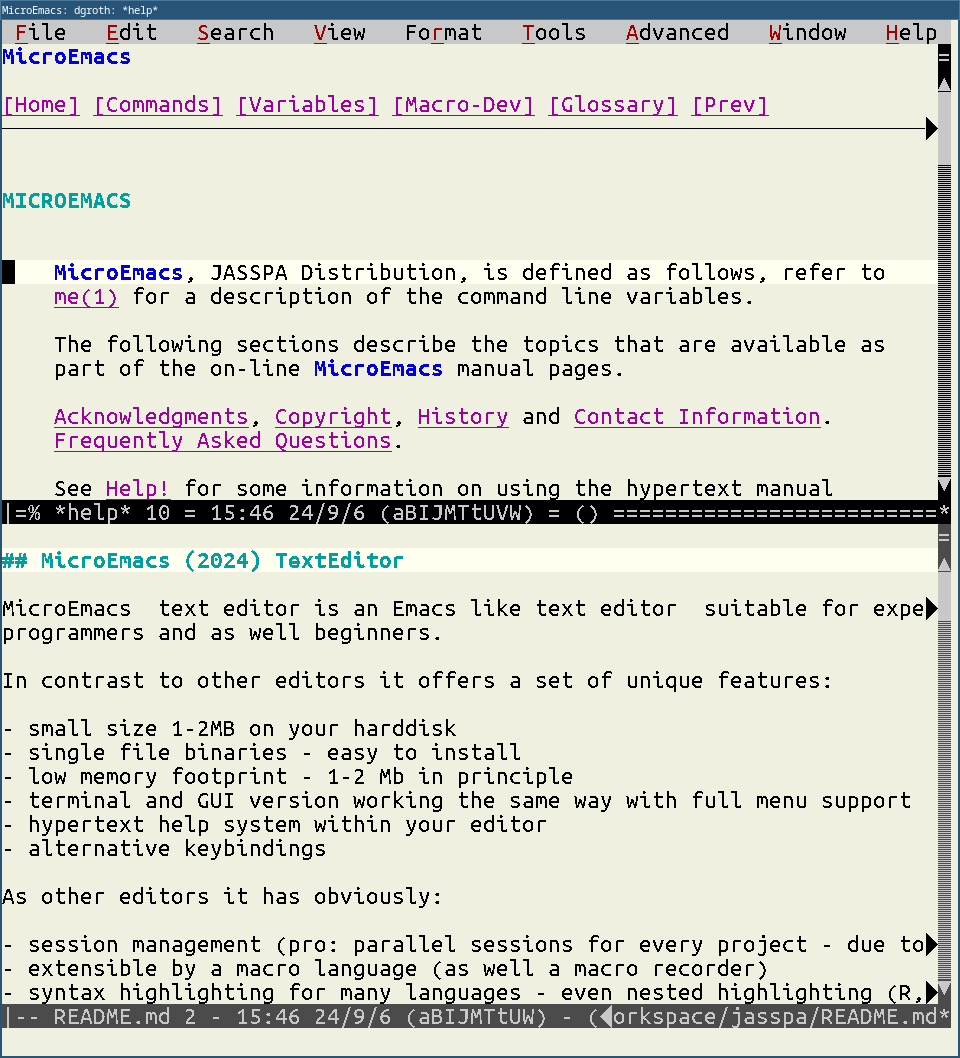
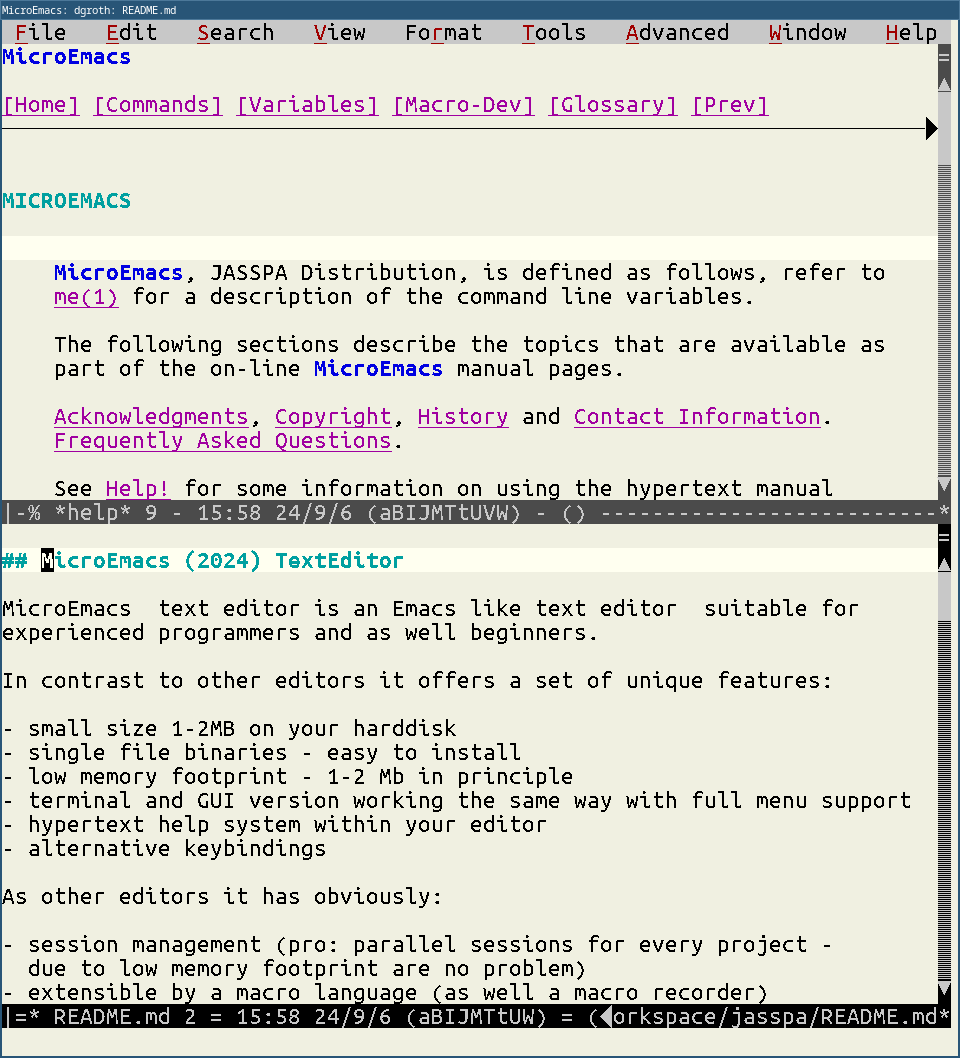
adding ME24 graphics

diff --git a/README.md b/README.md
@@ -1,8 +1,8 @@
 
 ## <img src="microemacs/graphics/me_m.png" /> &nbsp;MicroEmacs (2024) TextEditor
 
-MicroEmacs  text editor is an Emacs like text editor  suitable for experienced
-programmers and as well beginners.
+MicroEmacs  text editor is an Emacs like text editor  suitable for 
+experienced programmers and as well beginners.
 
 In contrast to other editors it offers a set of unique features:
 
@@ -15,7 +15,8 @@ In contrast to other editors it offers a set of unique features:
 
 As other editors it has obviously:
 
-- session management (pro: parallel sessions for every project - due to low memory footprint are no problem)
+- session management (pro: parallel sessions for every project - 
+  due to low memory footprint are no problem)
 - extensible by a macro language (as well a macro recorder)
 - syntax highlighting for many languages - even nested highlighting (R, Python etc in Markdown documents )
 - spell checking for many languages
